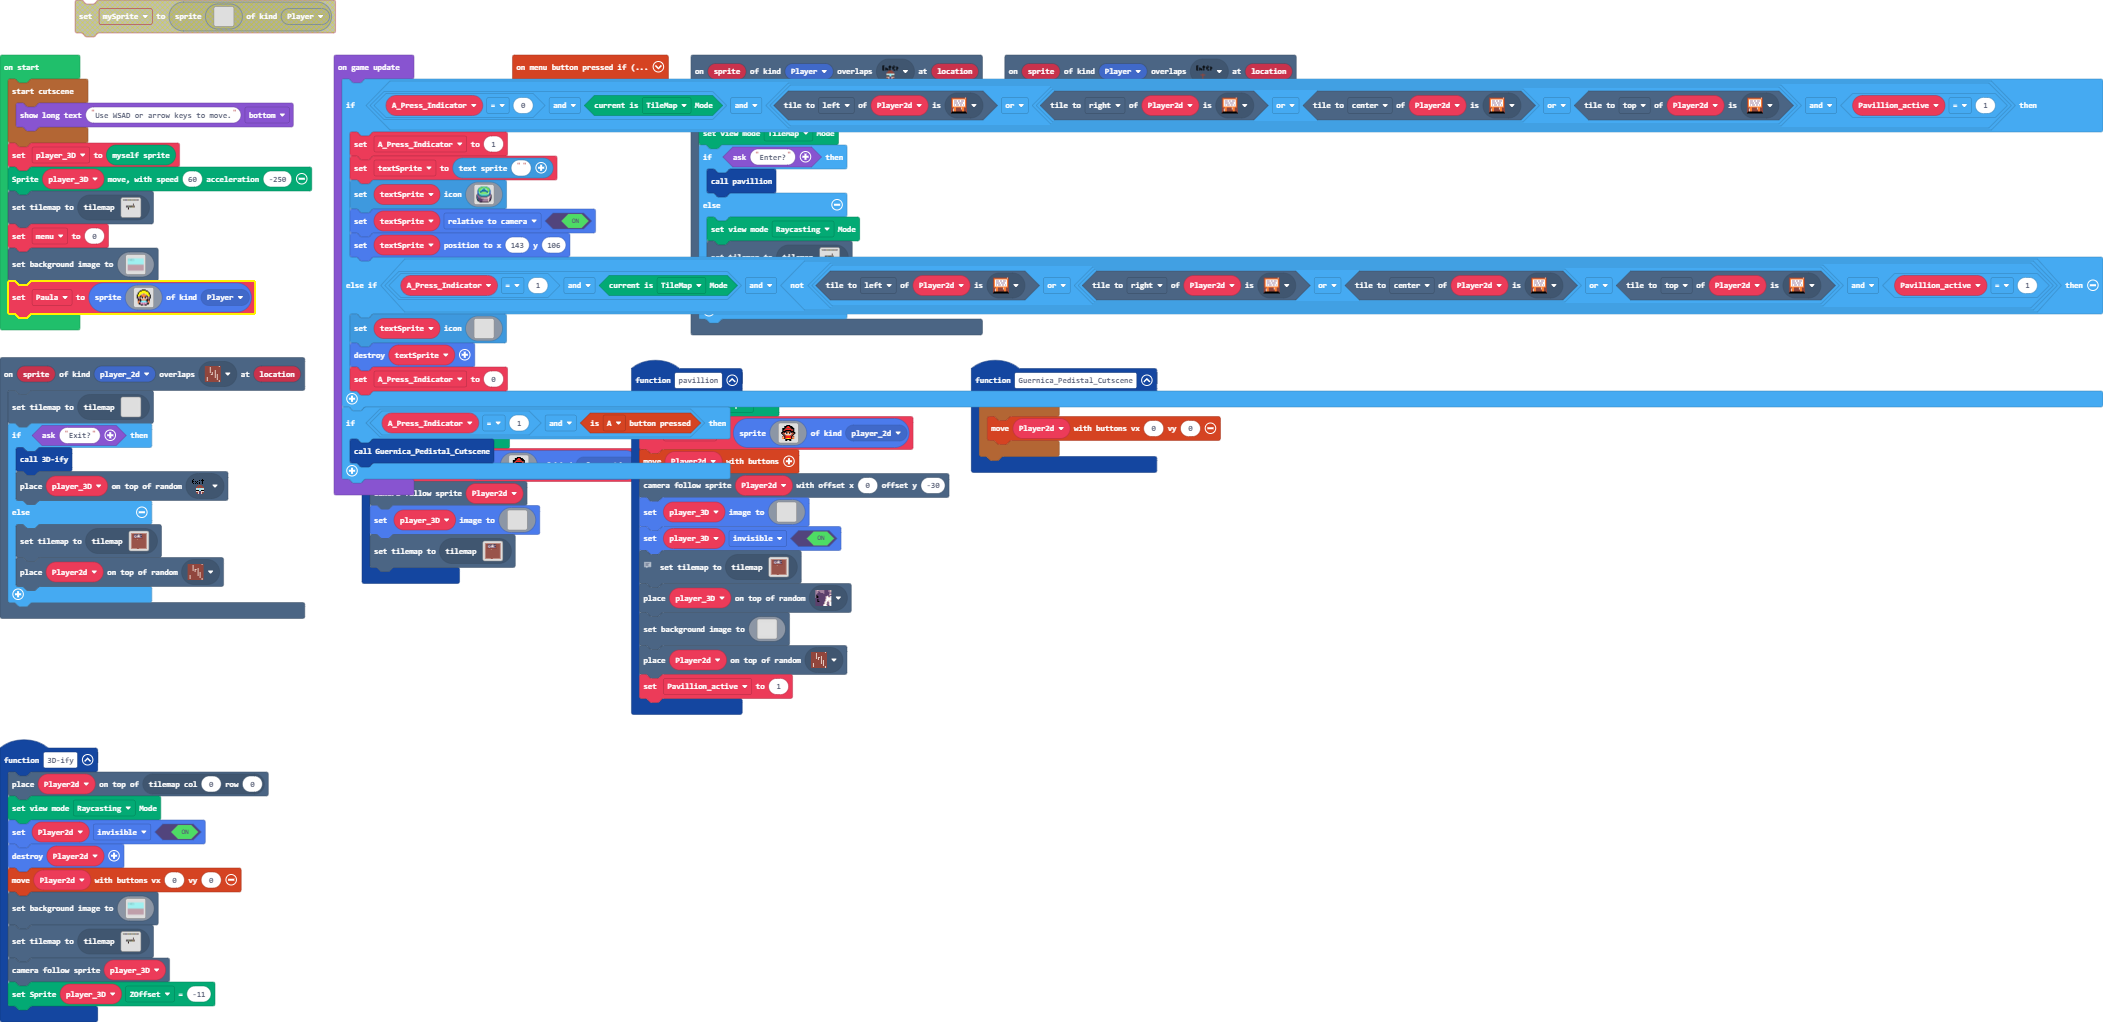
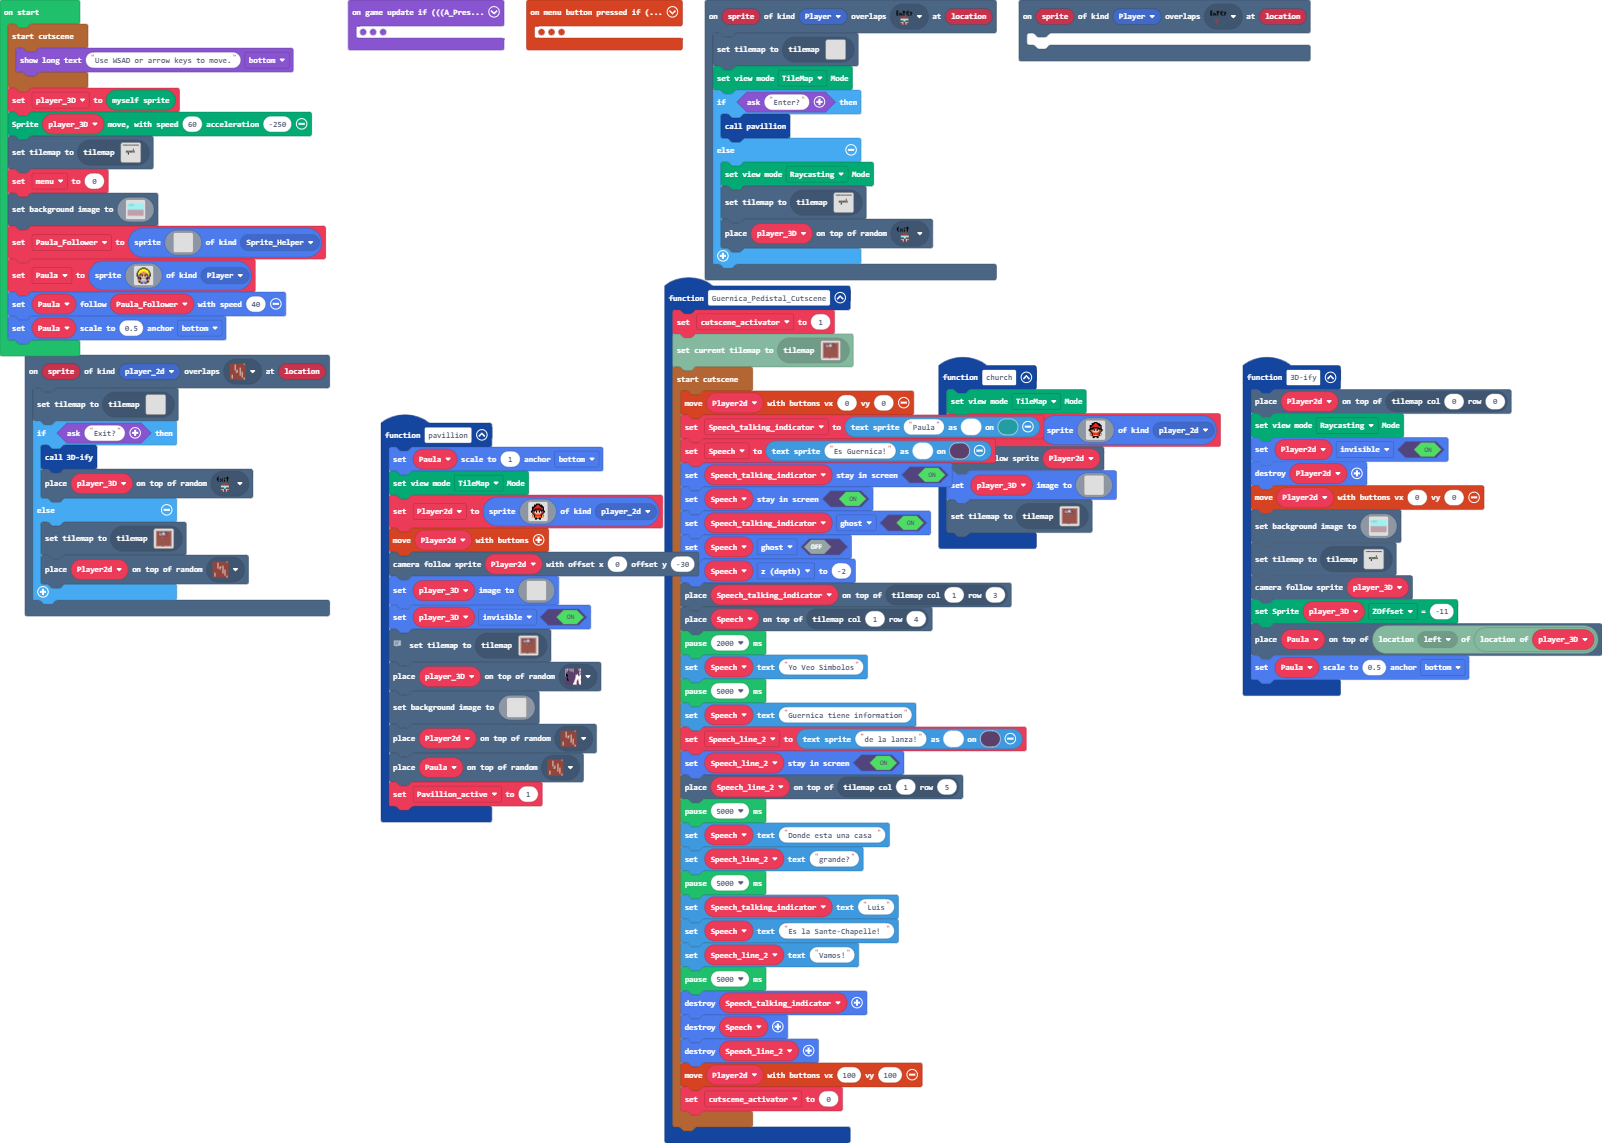
Update main.blocks, main.ts, tilemap.g.jres, tilemap.g.ts, images.g.jres, images.g.ts

diff --git a/main.ts b/main.ts
@@ -1,6 +1,7 @@
 namespace SpriteKind {
     export const Minimap = SpriteKind.create()
     export const player_2d = SpriteKind.create()
+    export const Sprite_Helper = SpriteKind.create()
 }
 scene.onOverlapTile(SpriteKind.Player, assets.tile`Pavillion_Enter_Location`, function (sprite, location) {
     tiles.setCurrentTilemap(tilemap`Blank_map`)
@@ -18,12 +19,13 @@ scene.onOverlapTile(SpriteKind.Player, assets.tile`Church_Enter_Location`, funct
 })
 controller.menu.onEvent(ControllerButtonEvent.Pressed, function () {
     if (menu == 0) {
+        Paula.setFlag(SpriteFlag.Invisible, true)
         if (Render.isViewMode(ViewMode.raycastingView)) {
             menu = 1
             Render.toggleViewMode()
             Render.move(Render.getRenderSpriteInstance(), 0, 0)
             scene.setBackgroundImage(assets.image`Blank_Background`)
-            player_3D.setImage(assets.image`Player 3D`)
+            player_3D.setImage(assets.image`Luis`)
             Render.moveWithController(0, 0, 0)
             myMinimap = minimap.minimap(MinimapScale.Original, 2, 0)
             Minimap_sprite = sprites.create(minimap.getImage(minimap.minimap(MinimapScale.Quarter, 2, 0)), SpriteKind.Minimap)
@@ -43,6 +45,7 @@ controller.menu.onEvent(ControllerButtonEvent.Pressed, function () {
             tiles.placeOnTile(Not_Avalible, Player2d.tilemapLocation())
         }
     } else if (menu == 1) {
+        Paula.setFlag(SpriteFlag.Invisible, false)
         player_3D.setImage(assets.image`Hidden_Player_Sprite`)
         tiles.setCurrentTilemap(tilemap`Paris`)
         scene.setBackgroundImage(assets.image`Paris_BG`)
@@ -52,11 +55,12 @@ controller.menu.onEvent(ControllerButtonEvent.Pressed, function () {
         sprites.destroy(Minimap_sprite)
         menu = 0
     } else if (menu == 2) {
+        Paula.setFlag(SpriteFlag.Invisible, false)
         menu = 0
         sprites.destroy(Not_Avalible)
         tiles.loadMap(tiles.createMap(tilemap`Spanish_Pavillion`))
         controller.moveSprite(Player2d, 100, 100)
-        Player2d.setImage(assets.image`Player 3D`)
+        Player2d.setImage(assets.image`Luis`)
     }
 })
 scene.onOverlapTile(SpriteKind.player_2d, assets.tile`wood_floor_exit_location`, function (sprite, location) {
@@ -70,8 +74,39 @@ scene.onOverlapTile(SpriteKind.player_2d, assets.tile`wood_floor_exit_location`,
     }
 })
 function Guernica_Pedistal_Cutscene () {
+    cutscene_activator = 1
+    tiles.loadMap(tiles.createMap(tilemap`Spanish_Pavillion`))
     story.startCutscene(function () {
         controller.moveSprite(Player2d, 0, 0)
+        Speech_talking_indicator = textsprite.create("Paula", 6, 1)
+        Speech = textsprite.create("Es Guernica!", 12, 1)
+        Speech_talking_indicator.setStayInScreen(true)
+        Speech.setStayInScreen(true)
+        Speech_talking_indicator.setFlag(SpriteFlag.Ghost, true)
+        Speech.setFlag(SpriteFlag.Ghost, false)
+        Speech.z = -2
+        tiles.placeOnTile(Speech_talking_indicator, tiles.getTileLocation(1, 3))
+        tiles.placeOnTile(Speech, tiles.getTileLocation(1, 4))
+        pause(2000)
+        Speech.setText("Yo Veo Simbolos")
+        pause(5000)
+        Speech.setText("Guernica tiene information")
+        Speech_line_2 = textsprite.create("de la lanza!", 12, 1)
+        Speech_line_2.setStayInScreen(true)
+        tiles.placeOnTile(Speech_line_2, tiles.getTileLocation(1, 5))
+        pause(5000)
+        Speech.setText("Donde esta una casa ")
+        Speech_line_2.setText("grande?")
+        pause(5000)
+        Speech_talking_indicator.setText("Luis")
+        Speech.setText("Es la Sante-Chapelle! ")
+        Speech_line_2.setText("Vamos!")
+        pause(5000)
+        sprites.destroy(Speech_talking_indicator)
+        sprites.destroy(Speech)
+        sprites.destroy(Speech_line_2)
+        controller.moveSprite(Player2d, 100, 100)
+        cutscene_activator = 0
     })
 }
 function _3Dify () {
@@ -84,10 +119,13 @@ function _3Dify () {
     tiles.setCurrentTilemap(tilemap`Paris`)
     scene.cameraFollowSprite(player_3D)
     Render.setSpriteAttribute(player_3D, RCSpriteAttribute.ZOffset, -11)
+    tiles.placeOnTile(Paula, tiles.locationInDirection(tiles.locationOfSprite(player_3D), CollisionDirection.Left))
+    Paula.setScale(0.5, ScaleAnchor.Bottom)
 }
 function pavillion () {
+    Paula.setScale(1, ScaleAnchor.Bottom)
     Render.setViewMode(ViewMode.tilemapView)
-    Player2d = sprites.create(assets.image`Player 3D`, SpriteKind.player_2d)
+    Player2d = sprites.create(assets.image`Luis`, SpriteKind.player_2d)
     controller.moveSprite(Player2d)
     cameraOffsetScene.cameraFollowWithOffset(Player2d, 0, -30)
     player_3D.setImage(assets.image`Hidden_Player_Sprite`)
@@ -161,11 +199,12 @@ function pavillion () {
     tiles.placeOnRandomTile(player_3D, assets.tile`Guernica 0-2`)
     scene.setBackgroundImage(assets.image`Blank_Background`)
     tiles.placeOnRandomTile(Player2d, assets.tile`wood_floor_enter_location`)
+    tiles.placeOnRandomTile(Paula, assets.tile`wood_floor_exit_location`)
     Pavillion_active = 1
 }
 function church () {
     Render.setViewMode(ViewMode.tilemapView)
-    Player2d = sprites.create(assets.image`Player 3D`, SpriteKind.player_2d)
+    Player2d = sprites.create(assets.image`Luis`, SpriteKind.player_2d)
     scene.cameraFollowSprite(Player2d)
     player_3D.setImage(assets.image`Hidden_Player_Sprite`)
     tiles.setCurrentTilemap(tilemap`Spanish_Pavillion`)
@@ -173,11 +212,16 @@ function church () {
 let textSprite: TextSprite = null
 let A_Press_Indicator = 0
 let Pavillion_active = 0
+let Speech_line_2: TextSprite = null
+let Speech: TextSprite = null
+let Speech_talking_indicator: TextSprite = null
+let cutscene_activator = 0
 let Not_Avalible: TextSprite = null
 let Player2d: Sprite = null
 let Current_tilemap: tiles.WorldMap = null
 let Minimap_sprite: Sprite = null
 let myMinimap: minimap.Minimap = null
+let Paula: Sprite = null
 let menu = 0
 let player_3D: Sprite = null
 story.startCutscene(function () {
@@ -188,7 +232,10 @@ Render.move(player_3D, 60, -250)
 tiles.setCurrentTilemap(tilemap`Paris`)
 menu = 0
 scene.setBackgroundImage(assets.image`Paris_BG`)
-let Paula = sprites.create(assets.image`Paula`, SpriteKind.Player)
+let Paula_Follower = sprites.create(assets.image`Hidden_Player_Sprite`, SpriteKind.Sprite_Helper)
+Paula = sprites.create(assets.image`Paula`, SpriteKind.Player)
+Paula.follow(Paula_Follower, 40)
+Paula.setScale(0.5, ScaleAnchor.Bottom)
 game.onUpdate(function () {
     if (A_Press_Indicator == 0 && Render.isViewMode(ViewMode.tilemapView) && ((Player2d.tileKindAt(TileDirection.Left, assets.tile`Guernica_Info_stand`) || (Player2d.tileKindAt(TileDirection.Right, assets.tile`Guernica_Info_stand`) || Player2d.tileKindAt(TileDirection.Center, assets.tile`Guernica_Info_stand`) || Player2d.tileKindAt(TileDirection.Top, assets.tile`Guernica_Info_stand`))) && Pavillion_active == 1)) {
         A_Press_Indicator = 1
@@ -234,7 +281,12 @@ game.onUpdate(function () {
         sprites.destroy(textSprite)
         A_Press_Indicator = 0
     }
-    if (A_Press_Indicator == 1 && controller.A.isPressed()) {
+    if (cutscene_activator == 0 && (A_Press_Indicator == 1 && controller.A.isPressed())) {
         Guernica_Pedistal_Cutscene()
+    }
+    if (Render.isViewMode(ViewMode.raycastingView)) {
+        tiles.placeOnTile(Paula_Follower, tiles.locationInDirection(tiles.locationOfSprite(player_3D), CollisionDirection.Left))
+    } else if (Render.isViewMode(ViewMode.tilemapView)) {
+        tiles.placeOnTile(Paula_Follower, tiles.locationInDirection(tiles.locationOfSprite(Player2d), CollisionDirection.Bottom))
     }
 })

diff --git a/tilemap.g.ts b/tilemap.g.ts
@@ -223,6 +223,44 @@ namespace myTiles {
 2 . . . . . . . . . . . . . . 2 
 2 2 2 2 2 2 . . 2 2 2 2 2 2 2 2 
 `, [myTiles.transparency16,myTiles.tile14,myTiles.tile17,myTiles.tile19,myTiles.tile20,myTiles.tile21,myTiles.tile22,myTiles.tile23,myTiles.tile24,myTiles.tile25,myTiles.tile26,myTiles.tile27,myTiles.tile28,myTiles.tile29,myTiles.tile30,myTiles.tile31,myTiles.tile32,myTiles.tile33,myTiles.tile34,myTiles.tile35,myTiles.tile36,myTiles.tile37,myTiles.tile38,myTiles.tile39,myTiles.tile40,myTiles.tile42,myTiles.tile43,myTiles.tile44,myTiles.tile45,myTiles.tile46,myTiles.tile47,myTiles.tile48,myTiles.tile49,myTiles.tile50,myTiles.tile54,myTiles.tile55,myTiles.tile56,myTiles.tile57,myTiles.tile58,myTiles.tile60,myTiles.tile51,myTiles.tile52,myTiles.tile61], TileScale.Sixteen);
+            case "level1":
+            case "level1":return tiles.createTilemap(hex`1000100000000000000000000000000000000000000000000000000000000000000000000000000000000000000000000000000000000000000000000000000000000000000000000000000000000000000000000000000000000000000000000000000000000000000000000000000000000000000000000000000000000000000000000000000000000000000000000000000000000000000000000000000000000000000000000000000000000000000000000000000000000000000000000000000000000000000000000000000000000000000000000000000000000000000000000000000000000000000000000000000000000000000000000000000000000000`, img`
+. . . . . . . . . . . . . . . . 
+. . . . . . . . . . . . . . . . 
+. . . . . . . . . . . . . . . . 
+. . . . . . . . . . . . . . . . 
+. . . . . . . . . . . . . . . . 
+. . . . . . . . . . . . . . . . 
+. . . . . . . . . . . . . . . . 
+. . . . . . . . . . . . . . . . 
+. . . . . . . . . . . . . . . . 
+. . . . . . . . . . . . . . . . 
+. . . . . . . . . . . . . . . . 
+. . . . . . . . . . . . . . . . 
+. . . . . . . . . . . . . . . . 
+. . . . . . . . . . . . . . . . 
+. . . . . . . . . . . . . . . . 
+. . . . . . . . . . . . . . . . 
+`, [myTiles.transparency16], TileScale.Sixteen);
+            case "level5":
+            case "level5":return tiles.createTilemap(hex`1000100000000000000000000000000000000000000000000000000000000000000000000000000000000000000000000000000000000000000000000000000000000000000000000000000000000000000000000000000000000000000000000000000000000000000000000000000000000000000000000000000000000000000000000000000000000000000000000000000000000000000000000000000000000000000000000000000000000000000000000000000000000000000000000000000000000000000000000000000000000000000000000000000000000000000000000000000000000000000000000000000000000000000000000000000000000000`, img`
+. . . . . . . . . . . . . . . . 
+. . . . . . . . . . . . . . . . 
+. . . . . . . . . . . . . . . . 
+. . . . . . . . . . . . . . . . 
+. . . . . . . . . . . . . . . . 
+. . . . . . . . . . . . . . . . 
+. . . . . . . . . . . . . . . . 
+. . . . . . . . . . . . . . . . 
+. . . . . . . . . . . . . . . . 
+. . . . . . . . . . . . . . . . 
+. . . . . . . . . . . . . . . . 
+. . . . . . . . . . . . . . . . 
+. . . . . . . . . . . . . . . . 
+. . . . . . . . . . . . . . . . 
+. . . . . . . . . . . . . . . . 
+. . . . . . . . . . . . . . . . 
+`, [myTiles.transparency16], TileScale.Sixteen);
         }
         return null;
     })

diff --git a/images.g.ts b/images.g.ts
@@ -416,25 +416,6 @@ e 4 f b 1 1 1 1 b f 4 e
 . . . f f f f f f . . . 
 . . . f f . . f f . . . 
 `;
-            case "image5":
-            case "Player 3D":return img`
-. . . . . . f f f f . . . . . . 
-. . . . f f f 2 2 f f f . . . . 
-. . . . f f 2 2 2 2 f f f . . . 
-. . f f f e e e e e e f f f . . 
-. . f f e 2 2 2 2 2 2 e e f . . 
-. . f e 2 f f f f f f 2 e f . . 
-. . f f f f e e e e f f f f . . 
-. f f e f b f 4 4 f b f e f f . 
-. f e e 4 1 f d d f 1 4 e e f . 
-. . f e e d d d d d d e e f . . 
-. . . f e e 4 4 4 4 e e f . . . 
-. . e 4 f 2 2 2 2 2 2 f 4 e . . 
-. . 4 d f 2 2 2 2 2 2 f d 4 . . 
-. . 4 4 f 4 4 5 5 4 4 f 4 4 . . 
-. . . . . f f f f f f . . . . . 
-. . . . . f f . . f f . . . . . 
-`;
             case "image6":
             case "Paula":return img`
 . . . . . f f f f . . . . . 
@@ -453,6 +434,25 @@ f b b 4 1 f d d f 1 4 b b f
 . 4 f b 3 b 3 b 3 b b f 4 . 
 . . f f 3 b 3 b 3 3 f f . . 
 . . . . f f b b f f . . . . 
+`;
+            case "image5":
+            case "Luis":return img`
+. . . . . . f f f f . . . . . . 
+. . . . f f f 2 2 f f f . . . . 
+. . . . f f 2 2 2 2 f f f . . . 
+. . f f f e e e e e e f f f . . 
+. . f f e 2 2 2 2 2 2 e e f . . 
+. . f e 2 f f f f f f 2 e f . . 
+. . f f f f e e e e f f f f . . 
+. f f e f b f 4 4 f b f e f f . 
+. f e e 4 1 f d d f 1 4 e e f . 
+. . f e e d d d d d d e e f . . 
+. . . f e e 4 4 4 4 e e f . . . 
+. . e 4 f 2 2 2 2 2 2 f 4 e . . 
+. . 4 d f 2 2 2 2 2 2 f d 4 . . 
+. . 4 4 f 4 4 5 5 4 4 f 4 4 . . 
+. . . . . f f f f f f . . . . . 
+. . . . . f f . . f f . . . . . 
 `;
         }
         return null;
